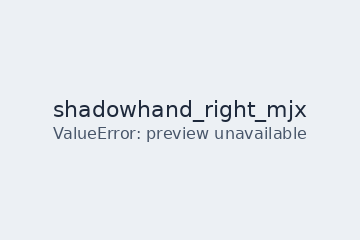
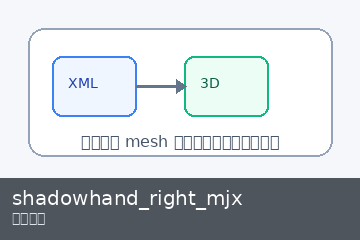
Refine benchmark inventory docs and previews

diff --git a/tools/render_benchmark_inventory.py b/tools/render_benchmark_inventory.py
@@ -101,10 +101,10 @@ def path_cell(paths: list[str] | str) -> str:
     return "<br>".join(f"`{item}`" for item in paths)
 
 
-def image_cell(path: str | None, alt: str) -> str:
+def image_cell(path: str | None, alt: str, width: int = 160) -> str:
     if not path:
         return ""
-    return f'<img src="{path}" width="160" alt="{alt}">'
+    return f'<img src="{path}" width="{width}" alt="{alt}">'
 
 
 def media_url(path: str) -> str:
@@ -185,9 +185,72 @@ def placeholder_image(title: str, subtitle: str) -> Image.Image:
     return image
 
 
+def reference_card(title: str, subtitle: str, detail: str | None = None) -> Image.Image:
+    image = Image.new("RGB", (SCENE_WIDTH, SCENE_HEIGHT), color=(245, 247, 250))
+    draw = ImageDraw.Draw(image)
+    frame = (28, 28, image.width - 28, image.height - 84)
+    draw.rounded_rectangle(frame, radius=16, outline=(148, 163, 184), width=2, fill=(255, 255, 255))
+    draw.rounded_rectangle((52, 56, 136, 116), radius=10, outline=(59, 130, 246), width=2, fill=(239, 246, 255))
+    draw.rounded_rectangle((184, 56, 268, 116), radius=10, outline=(16, 185, 129), width=2, fill=(236, 253, 245))
+    draw.line((136, 86, 184, 86), fill=(100, 116, 139), width=3)
+    draw.polygon([(176, 79), (176, 93), (186, 86)], fill=(100, 116, 139))
+    icon_font = load_font(14)
+    draw.text((68, 75), "XML", font=icon_font, fill=(30, 64, 175))
+    draw.text((200, 75), "3D", font=icon_font, fill=(6, 95, 70))
+    note_font = load_font(16)
+    note = detail or "Use metadata card"
+    note_lines = wrap_text(draw, note, note_font, image.width - 88)
+    y = 132
+    for line in note_lines[:2]:
+        box = draw.textbbox((0, 0), line, font=note_font)
+        x = (image.width - (box[2] - box[0])) // 2
+        draw.text((x, y), line, font=note_font, fill=(71, 85, 105))
+        y += 20
+    return add_label(image, title, subtitle)
+
+
 def save_image(image: Image.Image, out_path: Path) -> None:
     ensure_dir(out_path.parent)
     image.save(out_path)
+
+
+def humanize_render_error(exc: Exception) -> str:
+    message = str(exc)
+    if "No such file or directory" in message:
+        return "上游缺少 mesh 文件，使用结构卡片展示"
+    if "mesh" in message and "not found" in message:
+        return "上游 XML / mesh 引用异常，使用结构卡片展示"
+    if "plugin" in message:
+        return "上游插件依赖未满足，使用结构卡片展示"
+    return "当前改用结构卡片展示"
+
+
+AUTOBIO_PREVIEW_FALLBACKS = {
+    "model/object/centrifuge_1-5ml.xml": (
+        AUTOBIO_ROOT / "assets" / "container" / "centrifuge_1500ul_no_lid_vis.obj",
+        "mesh",
+        "使用相近的开放式 1.5 mL 管体预览",
+    ),
+    "model/object/centrifuge_15ml.xml": (
+        AUTOBIO_ROOT / "assets" / "container" / "centrifuge_15ml_screw_vis",
+        "mesh",
+        "使用相近的 15 mL screw-cap 管体预览",
+    ),
+    "model/object/centrifuge_50ml_screw.xml": (
+        AUTOBIO_ROOT / "assets" / "container" / "centrifuge_50ml_screw_vis",
+        "mesh",
+        "使用对应的 50 mL screw-cap mesh 预览",
+    ),
+}
+
+
+def fallback_render_source(source_path: Path) -> tuple[Path, str, str] | None:
+    resolved = resolve_autobio_render_source(source_path)
+    try:
+        relative = resolved.relative_to(AUTOBIO_ROOT).as_posix()
+    except ValueError:
+        return None
+    return AUTOBIO_PREVIEW_FALLBACKS.get(relative)
 
 
 def corner_background_color(image: Image.Image, sample: int = 16) -> np.ndarray:
@@ -327,7 +390,7 @@ def load_mesh_list(source: Path) -> list[trimesh.Trimesh]:
 def render_mesh_preview(source: Path, out_path: Path, title: str) -> None:
     meshes = load_mesh_list(source)
     if not meshes:
-        save_image(placeholder_image(title, "Preview unavailable"), out_path)
+        save_image(reference_card(title, "结构卡片", "未找到可渲染的 mesh 文件"), out_path)
         return
     mesh = trimesh.util.concatenate(meshes)
     vertices = mesh.vertices.copy()
@@ -379,7 +442,19 @@ def write_preview(source_path: Path, out_path: Path, title: str, preview_kind: s
         else:
             render_mesh_preview(source_path, out_path, title)
     except Exception as exc:
-        save_image(placeholder_image(title, f"{type(exc).__name__}: preview unavailable"), out_path)
+        fallback = fallback_render_source(source_path)
+        if fallback is not None:
+            fallback_source, fallback_kind, fallback_reason = fallback
+            try:
+                if fallback_kind == "mjcf":
+                    render_mjcf_preview(fallback_source, out_path, title)
+                else:
+                    render_mesh_preview(fallback_source, out_path, title)
+                return
+            except Exception:
+                save_image(reference_card(title, "结构卡片", fallback_reason), out_path)
+                return
+        save_image(reference_card(title, "结构卡片", humanize_render_error(exc)), out_path)
 
 
 def local_labutopia_thumb(scene_path: str) -> Path | None:
@@ -842,7 +917,11 @@ def core_inventory_rows(
         rows.append(
             TableRow(
                 [
-                    image_cell(manifest["core_entries"].get(entry["entry_id"]), entry["entry_name"]),
+                    image_cell(
+                        manifest["core_entries"].get(entry["entry_id"]),
+                        entry["entry_name"],
+                        width=320,
+                    ),
                     entry["entry_name"],
                     source_label(entry["source_project"]),
                     REFERENCE_KIND_LABELS[entry["reference_kind"]],
@@ -921,7 +1000,9 @@ def write_readme(manifest: dict[str, dict[str, str]]) -> None:
         "- `LabUtopia` 的主脉络是 `assets/chemistry_lab/`。它本质上更偏 scene-first，很多对象只能通过 `xxx.usd#/World/...` 这种场景内路径来引用。",
         "- 因此两者合并时，不能只看独立对象；必须把场景、场景内对象引用和组合对象一起纳入统一清单。",
         "",
-        "## 4. 合并后的可视化清单",
+        "## 4. 全部资产 / 场景",
+        "",
+        "这一章展示的是上游范围内所有值得盘点和可视化的条目，不等于最终全部纳入 benchmark。少数上游条目如果存在缺失 mesh 或坏引用，会使用结构卡片代替失败 placeholder。",
         "",
         "### 4.1 场景内对象引用",
         "",
@@ -939,9 +1020,21 @@ def write_readme(manifest: dict[str, dict[str, str]]) -> None:
         "",
         make_table(["预览", "来源", "类别", "名称", "路径", "说明"], scene_rows),
         "",
-        "## 5. 核心条目清单",
+        "## 5. 筛选后的 Benchmark 资产 / 场景",
         "",
         "这一节对应 `benchmark_core_inventory.json`。它只保留当前 benchmark 直接需要复用的核心条目，而不是上游仓库的全部文件。",
+        "",
+        "### 5.1 纳入标准",
+        "",
+        "只有同时满足下面这些条件的条目，才会进入这一章：",
+        "",
+        "1. 能直接服务 benchmark 任务，而不是只提供环境背景。",
+        "2. 能稳定归入一个明确的语义类别，并绑定 `match_group` 与别名集合。",
+        "3. 能整理成结构化数据单元，而不只是上游仓库里的孤立文件。",
+        "4. 粒度适合题目构造与 protocol 匹配，不会过细到单个环境碎片，也不会过粗到整张场景。",
+        "5. 至少具备可追溯的来源路径、用途说明和可视化状态，便于后续扩展与人工核查。",
+        "",
+        "### 5.2 核心条目表",
         "",
         make_table(
             ["预览", "条目名称", "来源", "层级", "匹配组", "别名", "用途", "本地相对路径", "可视化状态", "原始链接"],

diff --git a/data/benchmark_inventory/README.md b/data/benchmark_inventory/README.md
@@ -55,7 +55,9 @@ flowchart LR
 - `LabUtopia` 的主脉络是 `assets/chemistry_lab/`。它本质上更偏 scene-first，很多对象只能通过 `xxx.usd#/World/...` 这种场景内路径来引用。
 - 因此两者合并时，不能只看独立对象；必须把场景、场景内对象引用和组合对象一起纳入统一清单。
 
-## 4. 合并后的可视化清单
+## 4. 全部资产 / 场景
+
+这一章展示的是上游范围内所有值得盘点和可视化的条目，不等于最终全部纳入 benchmark。少数上游条目如果存在缺失 mesh 或坏引用，会使用结构卡片代替失败 placeholder。
 
 ### 4.1 场景内对象引用
 
@@ -174,41 +176,54 @@ flowchart LR
 | <img src="previews/labutopia/chem_usd/assets-chemistry-lab-hard-task-subusds-lab-015-usd.png" width="160" alt="assets/chemistry_lab/hard_task/SubUSDs/lab_015.usd"> | LabUtopia | 场景相关文件 | lab_015 | `assets/chemistry_lab/hard_task/SubUSDs/lab_015.usd` | SubUSD |
 | <img src="previews/labutopia/chem_usd/assets-chemistry-lab-lab-003-subusds-lab-015-usd.png" width="160" alt="assets/chemistry_lab/lab_003/SubUSDs/lab_015.usd"> | LabUtopia | 场景相关文件 | lab_015 | `assets/chemistry_lab/lab_003/SubUSDs/lab_015.usd` | SubUSD |
 
-## 5. 核心条目清单
+## 5. 筛选后的 Benchmark 资产 / 场景
 
 这一节对应 `benchmark_core_inventory.json`。它只保留当前 benchmark 直接需要复用的核心条目，而不是上游仓库的全部文件。
+第 5 章就是第 4 章经过 benchmark 纳入标准筛选后的子集。
+
+### 5.1 纳入标准
+
+只有同时满足下面这些条件的条目，才会进入这一章：
+
+1. 能直接服务 benchmark 任务，而不是只提供环境背景。
+2. 能稳定归入一个明确的语义类别，并绑定 `match_group` 与别名集合。
+3. 能整理成结构化数据单元，而不只是上游仓库里的孤立文件。
+4. 粒度适合题目构造与 protocol 匹配，不会过细到单个环境碎片，也不会过粗到整张场景。
+5. 至少具备可追溯的来源路径、用途说明和可视化状态，便于后续扩展与人工核查。
+
+### 5.2 核心条目表
 
 | 预览 | 条目名称 | 来源 | 层级 | 匹配组 | 别名 | 用途 | 本地相对路径 | 可视化状态 | 原始链接 |
 | --- | --- | --- | --- | --- | --- | --- | --- | --- | --- |
-| <img src="previews/core/autobio/autobio-cell-dish-100.png" width="160" alt="100 mm Cell Dish"> | 100 mm Cell Dish | AutoBio | 独立对象 | cell_dish | cell dish<br>cell dishes<br>cell culture dish<br>cell culture dishes<br>culture dish<br>culture dishes<br>petri dish<br>petri dishes | Cell culture plate for seeding, incubation, washing, and imaging. | `data/benchmark_inventory/files/autobio/autobio/assets/container/cell_dish_100_vis.obj` | 可直接按 mesh 渲染 | [源文件](https://raw.githubusercontent.com/autobio-bench/AutoBio/main/autobio/assets/container/cell_dish_100_vis.obj) |
-| <img src="previews/core/autobio/autobio-centrifuge-1-5ml-screw.png" width="160" alt="1.5 mL Screw-Cap Microcentrifuge Tube"> | 1.5 mL Screw-Cap Microcentrifuge Tube | AutoBio | 独立对象 | microcentrifuge_tube_1_5ml | microcentrifuge tube<br>microcentrifuge tubes<br>eppendorf tube<br>eppendorf tubes<br>1.5 ml tube<br>1.5 ml tubes<br>1.5 ml microcentrifuge tube<br>1.5 ml centrifuge tube<br>1.5 ml screw cap tube | Small sample tube for aliquoting, mixing, incubation, and centrifugation. | `data/benchmark_inventory/files/autobio/autobio/assets/container/centrifuge_1-5ml_screw_vis` | 可直接按 mesh 渲染 | [源文件](https://github.com/autobio-bench/AutoBio/tree/main/autobio/assets/container/centrifuge_1-5ml_screw_vis) |
-| <img src="previews/core/autobio/autobio-centrifuge-10ml.png" width="160" alt="10 mL Centrifuge Tube"> | 10 mL Centrifuge Tube | AutoBio | 独立对象 | centrifuge_tube_10ml | 10 ml centrifuge tube<br>10 ml centrifuge tubes<br>10ml centrifuge tube<br>10 ml tube<br>10 ml tubes | Medium-volume sample tube for transfer and centrifugation. | `data/benchmark_inventory/files/autobio/autobio/assets/container/centrifuge_10ml_vis.obj` | 可直接按 mesh 渲染 | [源文件](https://raw.githubusercontent.com/autobio-bench/AutoBio/main/autobio/assets/container/centrifuge_10ml_vis.obj) |
-| <img src="previews/core/autobio/autobio-centrifuge-1500ul-open.png" width="160" alt="1.5 mL Open Microcentrifuge Tube"> | 1.5 mL Open Microcentrifuge Tube | AutoBio | 独立对象 | microcentrifuge_tube_1_5ml | microcentrifuge tube<br>microcentrifuge tubes<br>eppendorf tube<br>eppendorf tubes<br>1.5 ml tube<br>1.5 ml tubes<br>1.5 ml microcentrifuge tube<br>1.5 ml centrifuge tube<br>1.5 ml screw cap tube | Open microcentrifuge tube for liquid handling and insertion tasks. | `data/benchmark_inventory/files/autobio/autobio/assets/container/centrifuge_1500ul_no_lid_vis.obj` | 可直接按 mesh 渲染 | [源文件](https://raw.githubusercontent.com/autobio-bench/AutoBio/main/autobio/assets/container/centrifuge_1500ul_no_lid_vis.obj) |
-| <img src="previews/core/autobio/autobio-centrifuge-15ml-screw.png" width="160" alt="15 mL Screw-Cap Centrifuge Tube"> | 15 mL Screw-Cap Centrifuge Tube | AutoBio | 独立对象 | centrifuge_tube_15ml | 15 ml centrifuge tube<br>15 ml centrifuge tubes<br>15ml centrifuge tube<br>15 ml conical tube<br>15 ml conical tubes<br>15ml conical tube<br>15 ml falcon tube<br>15 ml falcon tubes | Conical sample tube for medium-volume transfer and centrifugation. | `data/benchmark_inventory/files/autobio/autobio/assets/container/centrifuge_15ml_screw_vis` | 可直接按 mesh 渲染 | [源文件](https://github.com/autobio-bench/AutoBio/tree/main/autobio/assets/container/centrifuge_15ml_screw_vis) |
-| <img src="previews/core/autobio/autobio-centrifuge-50ml.png" width="160" alt="50 mL Centrifuge Tube"> | 50 mL Centrifuge Tube | AutoBio | 独立对象 | centrifuge_tube_50ml | 50 ml centrifuge tube<br>50 ml centrifuge tubes<br>50ml centrifuge tube<br>50 ml conical tube<br>50 ml conical tubes<br>50ml conical tube<br>50 ml falcon tube<br>50 ml falcon tubes<br>falcon tube<br>falcon tubes | Large conical tube for reagent preparation and centrifugation. | `data/benchmark_inventory/files/autobio/autobio/assets/container/centrifuge_50ml_vis.obj` | 可直接按 mesh 渲染 | [源文件](https://raw.githubusercontent.com/autobio-bench/AutoBio/main/autobio/assets/container/centrifuge_50ml_vis.obj) |
-| <img src="previews/core/autobio/autobio-centrifuge-50ml-screw.png" width="160" alt="50 mL Screw-Cap Centrifuge Tube"> | 50 mL Screw-Cap Centrifuge Tube | AutoBio | 独立对象 | centrifuge_tube_50ml | 50 ml centrifuge tube<br>50 ml centrifuge tubes<br>50ml centrifuge tube<br>50 ml conical tube<br>50 ml conical tubes<br>50ml conical tube<br>50 ml falcon tube<br>50 ml falcon tubes<br>falcon tube<br>falcon tubes | Large screw-cap tube for sealed transfer and centrifugation. | `data/benchmark_inventory/files/autobio/autobio/assets/container/centrifuge_50ml_screw_vis` | 可直接按 mesh 渲染 | [源文件](https://github.com/autobio-bench/AutoBio/tree/main/autobio/assets/container/centrifuge_50ml_screw_vis) |
-| <img src="previews/core/autobio/autobio-cryovial-1-8ml.png" width="160" alt="1.8 mL Cryovial"> | 1.8 mL Cryovial | AutoBio | 独立对象 | cryovial | cryovial<br>cryovials<br>cryo vial<br>cryo vials<br>cryogenic vial<br>cryogenic vials | Cryogenic storage vial for frozen samples and aliquots. | `data/benchmark_inventory/files/autobio/autobio/assets/container/cryovial_1-8ml_vis` | 可直接按 mesh 渲染 | [源文件](https://github.com/autobio-bench/AutoBio/tree/main/autobio/assets/container/cryovial_1-8ml_vis) |
-| <img src="previews/core/autobio/autobio-pcr-plate-96well.png" width="160" alt="96-Well PCR Plate"> | 96-Well PCR Plate | AutoBio | 独立对象 | pcr_plate | pcr plate<br>pcr plates<br>96 well pcr plate<br>96 well pcr plates<br>96 well plate<br>96 well plates<br>96 well microplate<br>96 well microplates | Plate for PCR setup, thermal cycling, and sample organization. | `data/benchmark_inventory/files/autobio/autobio/assets/container/pcr_plate_96well_vis.obj` | 可直接按 mesh 渲染 | [源文件](https://raw.githubusercontent.com/autobio-bench/AutoBio/main/autobio/assets/container/pcr_plate_96well_vis.obj) |
-| <img src="previews/core/autobio/autobio-tip-200ul.png" width="160" alt="200 uL Pipette Tip"> | 200 uL Pipette Tip | AutoBio | 独立对象 | pipette_tip | pipette tip<br>pipette tips<br>micropipette tip<br>micropipette tips<br>200 ul tip<br>200 ul tips<br>200 ul pipette tip<br>200 ul pipette tips | Disposable liquid-handling tip for pipetting small volumes. | `data/benchmark_inventory/files/autobio/autobio/assets/container/tip_200ul_vis/visual.obj` | 可直接按 mesh 渲染 | [源文件](https://github.com/autobio-bench/AutoBio/tree/main/autobio/assets/container/tip_200ul_vis) |
-| <img src="previews/core/autobio/autobio-pipette.png" width="160" alt="Micropipette"> | Micropipette | AutoBio | 组合对象 | pipette | pipette<br>pipettes<br>micropipette<br>micropipettes<br>single channel pipette<br>single channel pipettes | Manual pipette for aspirating and dispensing liquids. | `data/benchmark_inventory/files/autobio/autobio/model/object/pipette.gen.xml` | 可直接按 MJCF 装配渲染 | [源文件](https://raw.githubusercontent.com/autobio-bench/AutoBio/main/autobio/model/object/pipette.gen.xml) |
-| <img src="previews/core/autobio/autobio-tip-box-24slot.png" width="160" alt="24-Slot Tip Box"> | 24-Slot Tip Box | AutoBio | 独立对象 | tip_box | tip box<br>tip boxes<br>pipette tip box<br>pipette tip boxes | Container for storing and presenting pipette tips. | `data/benchmark_inventory/files/autobio/autobio/assets/rack/tip_box_24slot_vis.obj` | 可直接按 mesh 渲染 | [源文件](https://raw.githubusercontent.com/autobio-bench/AutoBio/main/autobio/assets/rack/tip_box_24slot_vis.obj) |
-| <img src="previews/core/autobio/autobio-pipette-rack-tri.png" width="160" alt="Triangular Pipette Rack"> | Triangular Pipette Rack | AutoBio | 独立对象 | pipette_rack | pipette rack<br>pipette racks<br>pipette holder<br>pipette holders<br>pipette stand<br>pipette stands | Rack for holding pipettes upright between operations. | `data/benchmark_inventory/files/autobio/autobio/assets/rack/pipette_rack_tri_vis.obj` | 可直接按 mesh 渲染 | [源文件](https://raw.githubusercontent.com/autobio-bench/AutoBio/main/autobio/assets/rack/pipette_rack_tri_vis.obj) |
-| <img src="previews/core/autobio/autobio-centrifuge-10slot-rack.png" width="160" alt="10-Slot Centrifuge Tube Rack"> | 10-Slot Centrifuge Tube Rack | AutoBio | 独立对象 | tube_rack | tube rack<br>tube racks<br>centrifuge tube rack<br>centrifuge tube racks<br>microcentrifuge tube rack<br>microcentrifuge tube racks<br>test tube rack<br>test tube racks | Rack for organizing and positioning sample tubes. | `data/benchmark_inventory/files/autobio/autobio/assets/rack/centrifuge_10slot_vis.obj` | 可直接按 mesh 渲染 | [源文件](https://raw.githubusercontent.com/autobio-bench/AutoBio/main/autobio/assets/rack/centrifuge_10slot_vis.obj) |
-| <img src="previews/core/autobio/autobio-centrifuge-plate-60well.png" width="160" alt="60-Well Plate Rack"> | 60-Well Plate Rack | AutoBio | 独立对象 | tube_rack | tube rack<br>tube racks<br>centrifuge tube rack<br>centrifuge tube racks<br>microcentrifuge tube rack<br>microcentrifuge tube racks<br>test tube rack<br>test tube racks | Multi-well rack for arranging small tubes or vials. | `data/benchmark_inventory/files/autobio/autobio/assets/rack/centrifuge_plate_60well_vis.obj` | 可直接按 mesh 渲染 | [源文件](https://raw.githubusercontent.com/autobio-bench/AutoBio/main/autobio/assets/rack/centrifuge_plate_60well_vis.obj) |
-| <img src="previews/core/autobio/autobio-centrifuge-5430.png" width="160" alt="Eppendorf 5430 Centrifuge"> | Eppendorf 5430 Centrifuge | AutoBio | 组合对象 | centrifuge | centrifuge<br>centrifuges<br>microcentrifuge<br>microcentrifuges<br>bench centrifuge<br>bench centrifuges<br>refrigerated centrifuge<br>refrigerated centrifuges | Bench centrifuge for spinning small sample tubes. | `data/benchmark_inventory/files/autobio/autobio/model/instrument/centrifuge_eppendorf_5430.xml` | 可直接按 MJCF 装配渲染 | [源文件](https://raw.githubusercontent.com/autobio-bench/AutoBio/main/autobio/model/instrument/centrifuge_eppendorf_5430.xml) |
-| <img src="previews/core/autobio/autobio-centrifuge-5910-ri.png" width="160" alt="Eppendorf 5910 Ri Centrifuge"> | Eppendorf 5910 Ri Centrifuge | AutoBio | 组合对象 | centrifuge | centrifuge<br>centrifuges<br>microcentrifuge<br>microcentrifuges<br>bench centrifuge<br>bench centrifuges<br>refrigerated centrifuge<br>refrigerated centrifuges | Large refrigerated centrifuge for higher-volume tube spinning. | `data/benchmark_inventory/files/autobio/autobio/model/instrument/centrifuge_eppendorf_5910_ri.xml` | 可直接按 MJCF 装配渲染 | [源文件](https://raw.githubusercontent.com/autobio-bench/AutoBio/main/autobio/model/instrument/centrifuge_eppendorf_5910_ri.xml) |
-| <img src="previews/core/autobio/autobio-centrifuge-tgear-mini.png" width="160" alt="Tiangen Tgear Mini Centrifuge"> | Tiangen Tgear Mini Centrifuge | AutoBio | 组合对象 | centrifuge | centrifuge<br>centrifuges<br>microcentrifuge<br>microcentrifuges<br>bench centrifuge<br>bench centrifuges<br>refrigerated centrifuge<br>refrigerated centrifuges | Compact mini centrifuge for quick spin-down operations. | `data/benchmark_inventory/files/autobio/autobio/model/instrument/centrifuge_tiangen_tgear_mini.xml` | 可直接按 MJCF 装配渲染 | [源文件](https://raw.githubusercontent.com/autobio-bench/AutoBio/main/autobio/model/instrument/centrifuge_tiangen_tgear_mini.xml) |
-| <img src="previews/core/autobio/autobio-thermal-cycler-c1000.png" width="160" alt="Bio-Rad C1000 Thermal Cycler"> | Bio-Rad C1000 Thermal Cycler | AutoBio | 组合对象 | thermal_cycler | thermal cycler<br>thermal cyclers<br>thermocycler<br>thermocyclers<br>pcr machine<br>pcr machines | PCR instrument for running thermal cycling programs. | `data/benchmark_inventory/files/autobio/autobio/model/instrument/thermal_cycler_biorad_c1000.xml` | 可直接按 MJCF 装配渲染 | [源文件](https://raw.githubusercontent.com/autobio-bench/AutoBio/main/autobio/model/instrument/thermal_cycler_biorad_c1000.xml) |
-| <img src="previews/core/autobio/autobio-thermal-mixer-eppendorf-c.png" width="160" alt="Eppendorf C Thermal Mixer"> | Eppendorf C Thermal Mixer | AutoBio | 组合对象 | thermal_mixer | thermal mixer<br>thermal mixers<br>thermomixer<br>thermomixers<br>heat shaker<br>heat shakers | Instrument for controlled heating and shaking of samples. | `data/benchmark_inventory/files/autobio/autobio/model/instrument/thermal_mixer_eppendorf_c.xml` | 可直接按 MJCF 装配渲染 | [源文件](https://raw.githubusercontent.com/autobio-bench/AutoBio/main/autobio/model/instrument/thermal_mixer_eppendorf_c.xml) |
-| <img src="previews/core/autobio/autobio-vortex-mixer-genie-2.png" width="160" alt="Genie 2 Vortex Mixer"> | Genie 2 Vortex Mixer | AutoBio | 组合对象 | vortex_mixer | vortex mixer<br>vortex mixers<br>vortexer<br>vortexers<br>vortex genie | Mixer for vortexing tubes and suspensions. | `data/benchmark_inventory/files/autobio/autobio/model/instrument/vortex_mixer_genie_2.xml` | 可直接按 MJCF 装配渲染 | [源文件](https://raw.githubusercontent.com/autobio-bench/AutoBio/main/autobio/model/instrument/vortex_mixer_genie_2.xml) |
-| <img src="previews/core/labutopia/labutopia-beaker-family.png" width="160" alt="Beaker Family"> | Beaker Family | LabUtopia | 场景内对象引用 | beaker | beaker<br>beakers<br>glass beaker<br>glass beakers | General glass container for mixing, pouring, heating, and transfer. | `data/benchmark_inventory/files/labutopia/assets/chemistry_lab/lab_001/lab_001.usd#/World/beaker` | 当前使用 USD 场景缩略图展示 | [源文件](https://media.githubusercontent.com/media/Rui-li023/LabUtopia/main/assets/chemistry_lab/lab_001/lab_001.usd) |
-| <img src="previews/core/labutopia/labutopia-conical-bottle-family.png" width="160" alt="Conical Bottle / Flask Family"> | Conical Bottle / Flask Family | LabUtopia | 场景内对象引用 | conical_bottle | conical bottle<br>conical bottles<br>erlenmeyer flask<br>erlenmeyer flasks<br>conical flask<br>conical flasks | Flask-style glassware for liquid storage, mixing, and pouring. | `data/benchmark_inventory/files/labutopia/assets/chemistry_lab/lab_001/lab_001.usd#/World/conical_bottle02` | 当前使用 USD 场景缩略图展示 | [源文件](https://media.githubusercontent.com/media/Rui-li023/LabUtopia/main/assets/chemistry_lab/lab_001/lab_001.usd) |
-| <img src="previews/core/labutopia/labutopia-graduated-cylinder-03.png" width="160" alt="Graduated Cylinder"> | Graduated Cylinder | LabUtopia | 场景内对象引用 | graduated_cylinder | graduated cylinder<br>graduated cylinders<br>measuring cylinder<br>measuring cylinders | Volumetric cylinder for measuring and dispensing liquids. | `data/benchmark_inventory/files/labutopia/assets/chemistry_lab/lab_001/lab_001.usd#/World/graduated_cylinder_03` | 当前使用 USD 场景缩略图展示 | [源文件](https://media.githubusercontent.com/media/Rui-li023/LabUtopia/main/assets/chemistry_lab/lab_001/lab_001.usd) |
-| <img src="previews/core/labutopia/labutopia-glass-rod.png" width="160" alt="Glass Rod"> | Glass Rod | LabUtopia | 场景内对象引用 | glass_rod | glass rod<br>glass rods<br>stirring rod<br>stirring rods<br>glass stirring rod<br>glass stirring rods | Rod for manual stirring and mixing. | `data/benchmark_inventory/files/labutopia/assets/chemistry_lab/lab_003/lab_003.usd#/World/glass_rod` | 当前使用 USD 场景缩略图展示 | [源文件](https://media.githubusercontent.com/media/Rui-li023/LabUtopia/main/assets/chemistry_lab/lab_003/lab_003.usd) |
-| <img src="previews/core/labutopia/labutopia-test-tube-rack.png" width="160" alt="Test Tube Rack"> | Test Tube Rack | LabUtopia | 场景内对象引用 | tube_rack | tube rack<br>tube racks<br>centrifuge tube rack<br>centrifuge tube racks<br>microcentrifuge tube rack<br>microcentrifuge tube racks<br>test tube rack<br>test tube racks | Rack for holding tubes upright during preparation and storage. | `data/benchmark_inventory/files/labutopia/assets/chemistry_lab/lab_001/lab_001.usd#/World/test_tube_rack` | 当前使用 USD 场景缩略图展示 | [源文件](https://media.githubusercontent.com/media/Rui-li023/LabUtopia/main/assets/chemistry_lab/lab_001/lab_001.usd) |
-| <img src="previews/core/labutopia/labutopia-drying-box-family.png" width="160" alt="Drying Box Family"> | Drying Box Family | LabUtopia | 场景内对象引用 | drying_box | drying box<br>drying boxes<br>dry box<br>dry boxes<br>drying oven<br>drying ovens<br>drying chamber<br>drying chambers | Device used for drying or enclosed heating workflows. | `data/benchmark_inventory/files/labutopia/assets/chemistry_lab/lab_001/lab_001.usd#/World/DryingBox_01` | 当前使用 USD 场景缩略图展示 | [源文件](https://media.githubusercontent.com/media/Rui-li023/LabUtopia/main/assets/chemistry_lab/lab_001/lab_001.usd) |
-| <img src="previews/core/labutopia/labutopia-heat-device.png" width="160" alt="Heat Device / Hot Plate"> | Heat Device / Hot Plate | LabUtopia | 场景内对象引用 | heating_device | hot plate<br>hot plates<br>heating plate<br>heating plates<br>heating device<br>heating devices<br>heat device<br>heat devices<br>heater<br>heaters | Heating surface or device used to activate thermal tasks. | `data/benchmark_inventory/files/labutopia/assets/chemistry_lab/lab_003/lab_003.usd#/World/heat_device` | 当前使用 USD 场景缩略图展示 | [源文件](https://media.githubusercontent.com/media/Rui-li023/LabUtopia/main/assets/chemistry_lab/lab_003/lab_003.usd) |
-| <img src="previews/core/labutopia/labutopia-muffle-furnace.png" width="160" alt="Muffle Furnace"> | Muffle Furnace | LabUtopia | 场景内对象引用 | muffle_furnace | muffle furnace<br>muffle furnaces<br>laboratory furnace<br>laboratory furnaces | High-temperature heating device for enclosed furnace operations. | `data/benchmark_inventory/files/labutopia/assets/chemistry_lab/hard_task/Scene1_hard.usd#/World/MuffleFurnace` | 当前使用 USD 场景缩略图展示 | [源文件](https://media.githubusercontent.com/media/Rui-li023/LabUtopia/main/assets/chemistry_lab/hard_task/Scene1_hard.usd) |
+| <img src="previews/core/autobio/autobio-cell-dish-100.png" width="320" alt="100 mm Cell Dish"> | 100 mm Cell Dish | AutoBio | 独立对象 | cell_dish | cell dish<br>cell dishes<br>cell culture dish<br>cell culture dishes<br>culture dish<br>culture dishes<br>petri dish<br>petri dishes | Cell culture plate for seeding, incubation, washing, and imaging. | `data/benchmark_inventory/files/autobio/autobio/assets/container/cell_dish_100_vis.obj` | 可直接按 mesh 渲染 | [源文件](https://raw.githubusercontent.com/autobio-bench/AutoBio/main/autobio/assets/container/cell_dish_100_vis.obj) |
+| <img src="previews/core/autobio/autobio-centrifuge-1-5ml-screw.png" width="320" alt="1.5 mL Screw-Cap Microcentrifuge Tube"> | 1.5 mL Screw-Cap Microcentrifuge Tube | AutoBio | 独立对象 | microcentrifuge_tube_1_5ml | microcentrifuge tube<br>microcentrifuge tubes<br>eppendorf tube<br>eppendorf tubes<br>1.5 ml tube<br>1.5 ml tubes<br>1.5 ml microcentrifuge tube<br>1.5 ml centrifuge tube<br>1.5 ml screw cap tube | Small sample tube for aliquoting, mixing, incubation, and centrifugation. | `data/benchmark_inventory/files/autobio/autobio/assets/container/centrifuge_1-5ml_screw_vis` | 可直接按 mesh 渲染 | [源文件](https://github.com/autobio-bench/AutoBio/tree/main/autobio/assets/container/centrifuge_1-5ml_screw_vis) |
+| <img src="previews/core/autobio/autobio-centrifuge-10ml.png" width="320" alt="10 mL Centrifuge Tube"> | 10 mL Centrifuge Tube | AutoBio | 独立对象 | centrifuge_tube_10ml | 10 ml centrifuge tube<br>10 ml centrifuge tubes<br>10ml centrifuge tube<br>10 ml tube<br>10 ml tubes | Medium-volume sample tube for transfer and centrifugation. | `data/benchmark_inventory/files/autobio/autobio/assets/container/centrifuge_10ml_vis.obj` | 可直接按 mesh 渲染 | [源文件](https://raw.githubusercontent.com/autobio-bench/AutoBio/main/autobio/assets/container/centrifuge_10ml_vis.obj) |
+| <img src="previews/core/autobio/autobio-centrifuge-1500ul-open.png" width="320" alt="1.5 mL Open Microcentrifuge Tube"> | 1.5 mL Open Microcentrifuge Tube | AutoBio | 独立对象 | microcentrifuge_tube_1_5ml | microcentrifuge tube<br>microcentrifuge tubes<br>eppendorf tube<br>eppendorf tubes<br>1.5 ml tube<br>1.5 ml tubes<br>1.5 ml microcentrifuge tube<br>1.5 ml centrifuge tube<br>1.5 ml screw cap tube | Open microcentrifuge tube for liquid handling and insertion tasks. | `data/benchmark_inventory/files/autobio/autobio/assets/container/centrifuge_1500ul_no_lid_vis.obj` | 可直接按 mesh 渲染 | [源文件](https://raw.githubusercontent.com/autobio-bench/AutoBio/main/autobio/assets/container/centrifuge_1500ul_no_lid_vis.obj) |
+| <img src="previews/core/autobio/autobio-centrifuge-15ml-screw.png" width="320" alt="15 mL Screw-Cap Centrifuge Tube"> | 15 mL Screw-Cap Centrifuge Tube | AutoBio | 独立对象 | centrifuge_tube_15ml | 15 ml centrifuge tube<br>15 ml centrifuge tubes<br>15ml centrifuge tube<br>15 ml conical tube<br>15 ml conical tubes<br>15ml conical tube<br>15 ml falcon tube<br>15 ml falcon tubes | Conical sample tube for medium-volume transfer and centrifugation. | `data/benchmark_inventory/files/autobio/autobio/assets/container/centrifuge_15ml_screw_vis` | 可直接按 mesh 渲染 | [源文件](https://github.com/autobio-bench/AutoBio/tree/main/autobio/assets/container/centrifuge_15ml_screw_vis) |
+| <img src="previews/core/autobio/autobio-centrifuge-50ml.png" width="320" alt="50 mL Centrifuge Tube"> | 50 mL Centrifuge Tube | AutoBio | 独立对象 | centrifuge_tube_50ml | 50 ml centrifuge tube<br>50 ml centrifuge tubes<br>50ml centrifuge tube<br>50 ml conical tube<br>50 ml conical tubes<br>50ml conical tube<br>50 ml falcon tube<br>50 ml falcon tubes<br>falcon tube<br>falcon tubes | Large conical tube for reagent preparation and centrifugation. | `data/benchmark_inventory/files/autobio/autobio/assets/container/centrifuge_50ml_vis.obj` | 可直接按 mesh 渲染 | [源文件](https://raw.githubusercontent.com/autobio-bench/AutoBio/main/autobio/assets/container/centrifuge_50ml_vis.obj) |
+| <img src="previews/core/autobio/autobio-centrifuge-50ml-screw.png" width="320" alt="50 mL Screw-Cap Centrifuge Tube"> | 50 mL Screw-Cap Centrifuge Tube | AutoBio | 独立对象 | centrifuge_tube_50ml | 50 ml centrifuge tube<br>50 ml centrifuge tubes<br>50ml centrifuge tube<br>50 ml conical tube<br>50 ml conical tubes<br>50ml conical tube<br>50 ml falcon tube<br>50 ml falcon tubes<br>falcon tube<br>falcon tubes | Large screw-cap tube for sealed transfer and centrifugation. | `data/benchmark_inventory/files/autobio/autobio/assets/container/centrifuge_50ml_screw_vis` | 可直接按 mesh 渲染 | [源文件](https://github.com/autobio-bench/AutoBio/tree/main/autobio/assets/container/centrifuge_50ml_screw_vis) |
+| <img src="previews/core/autobio/autobio-cryovial-1-8ml.png" width="320" alt="1.8 mL Cryovial"> | 1.8 mL Cryovial | AutoBio | 独立对象 | cryovial | cryovial<br>cryovials<br>cryo vial<br>cryo vials<br>cryogenic vial<br>cryogenic vials | Cryogenic storage vial for frozen samples and aliquots. | `data/benchmark_inventory/files/autobio/autobio/assets/container/cryovial_1-8ml_vis` | 可直接按 mesh 渲染 | [源文件](https://github.com/autobio-bench/AutoBio/tree/main/autobio/assets/container/cryovial_1-8ml_vis) |
+| <img src="previews/core/autobio/autobio-pcr-plate-96well.png" width="320" alt="96-Well PCR Plate"> | 96-Well PCR Plate | AutoBio | 独立对象 | pcr_plate | pcr plate<br>pcr plates<br>96 well pcr plate<br>96 well pcr plates<br>96 well plate<br>96 well plates<br>96 well microplate<br>96 well microplates | Plate for PCR setup, thermal cycling, and sample organization. | `data/benchmark_inventory/files/autobio/autobio/assets/container/pcr_plate_96well_vis.obj` | 可直接按 mesh 渲染 | [源文件](https://raw.githubusercontent.com/autobio-bench/AutoBio/main/autobio/assets/container/pcr_plate_96well_vis.obj) |
+| <img src="previews/core/autobio/autobio-tip-200ul.png" width="320" alt="200 uL Pipette Tip"> | 200 uL Pipette Tip | AutoBio | 独立对象 | pipette_tip | pipette tip<br>pipette tips<br>micropipette tip<br>micropipette tips<br>200 ul tip<br>200 ul tips<br>200 ul pipette tip<br>200 ul pipette tips | Disposable liquid-handling tip for pipetting small volumes. | `data/benchmark_inventory/files/autobio/autobio/assets/container/tip_200ul_vis/visual.obj` | 可直接按 mesh 渲染 | [源文件](https://github.com/autobio-bench/AutoBio/tree/main/autobio/assets/container/tip_200ul_vis) |
+| <img src="previews/core/autobio/autobio-pipette.png" width="320" alt="Micropipette"> | Micropipette | AutoBio | 组合对象 | pipette | pipette<br>pipettes<br>micropipette<br>micropipettes<br>single channel pipette<br>single channel pipettes | Manual pipette for aspirating and dispensing liquids. | `data/benchmark_inventory/files/autobio/autobio/model/object/pipette.gen.xml` | 可直接按 MJCF 装配渲染 | [源文件](https://raw.githubusercontent.com/autobio-bench/AutoBio/main/autobio/model/object/pipette.gen.xml) |
+| <img src="previews/core/autobio/autobio-tip-box-24slot.png" width="320" alt="24-Slot Tip Box"> | 24-Slot Tip Box | AutoBio | 独立对象 | tip_box | tip box<br>tip boxes<br>pipette tip box<br>pipette tip boxes | Container for storing and presenting pipette tips. | `data/benchmark_inventory/files/autobio/autobio/assets/rack/tip_box_24slot_vis.obj` | 可直接按 mesh 渲染 | [源文件](https://raw.githubusercontent.com/autobio-bench/AutoBio/main/autobio/assets/rack/tip_box_24slot_vis.obj) |
+| <img src="previews/core/autobio/autobio-pipette-rack-tri.png" width="320" alt="Triangular Pipette Rack"> | Triangular Pipette Rack | AutoBio | 独立对象 | pipette_rack | pipette rack<br>pipette racks<br>pipette holder<br>pipette holders<br>pipette stand<br>pipette stands | Rack for holding pipettes upright between operations. | `data/benchmark_inventory/files/autobio/autobio/assets/rack/pipette_rack_tri_vis.obj` | 可直接按 mesh 渲染 | [源文件](https://raw.githubusercontent.com/autobio-bench/AutoBio/main/autobio/assets/rack/pipette_rack_tri_vis.obj) |
+| <img src="previews/core/autobio/autobio-centrifuge-10slot-rack.png" width="320" alt="10-Slot Centrifuge Tube Rack"> | 10-Slot Centrifuge Tube Rack | AutoBio | 独立对象 | tube_rack | tube rack<br>tube racks<br>centrifuge tube rack<br>centrifuge tube racks<br>microcentrifuge tube rack<br>microcentrifuge tube racks<br>test tube rack<br>test tube racks | Rack for organizing and positioning sample tubes. | `data/benchmark_inventory/files/autobio/autobio/assets/rack/centrifuge_10slot_vis.obj` | 可直接按 mesh 渲染 | [源文件](https://raw.githubusercontent.com/autobio-bench/AutoBio/main/autobio/assets/rack/centrifuge_10slot_vis.obj) |
+| <img src="previews/core/autobio/autobio-centrifuge-plate-60well.png" width="320" alt="60-Well Plate Rack"> | 60-Well Plate Rack | AutoBio | 独立对象 | tube_rack | tube rack<br>tube racks<br>centrifuge tube rack<br>centrifuge tube racks<br>microcentrifuge tube rack<br>microcentrifuge tube racks<br>test tube rack<br>test tube racks | Multi-well rack for arranging small tubes or vials. | `data/benchmark_inventory/files/autobio/autobio/assets/rack/centrifuge_plate_60well_vis.obj` | 可直接按 mesh 渲染 | [源文件](https://raw.githubusercontent.com/autobio-bench/AutoBio/main/autobio/assets/rack/centrifuge_plate_60well_vis.obj) |
+| <img src="previews/core/autobio/autobio-centrifuge-5430.png" width="320" alt="Eppendorf 5430 Centrifuge"> | Eppendorf 5430 Centrifuge | AutoBio | 组合对象 | centrifuge | centrifuge<br>centrifuges<br>microcentrifuge<br>microcentrifuges<br>bench centrifuge<br>bench centrifuges<br>refrigerated centrifuge<br>refrigerated centrifuges | Bench centrifuge for spinning small sample tubes. | `data/benchmark_inventory/files/autobio/autobio/model/instrument/centrifuge_eppendorf_5430.xml` | 可直接按 MJCF 装配渲染 | [源文件](https://raw.githubusercontent.com/autobio-bench/AutoBio/main/autobio/model/instrument/centrifuge_eppendorf_5430.xml) |
+| <img src="previews/core/autobio/autobio-centrifuge-5910-ri.png" width="320" alt="Eppendorf 5910 Ri Centrifuge"> | Eppendorf 5910 Ri Centrifuge | AutoBio | 组合对象 | centrifuge | centrifuge<br>centrifuges<br>microcentrifuge<br>microcentrifuges<br>bench centrifuge<br>bench centrifuges<br>refrigerated centrifuge<br>refrigerated centrifuges | Large refrigerated centrifuge for higher-volume tube spinning. | `data/benchmark_inventory/files/autobio/autobio/model/instrument/centrifuge_eppendorf_5910_ri.xml` | 可直接按 MJCF 装配渲染 | [源文件](https://raw.githubusercontent.com/autobio-bench/AutoBio/main/autobio/model/instrument/centrifuge_eppendorf_5910_ri.xml) |
+| <img src="previews/core/autobio/autobio-centrifuge-tgear-mini.png" width="320" alt="Tiangen Tgear Mini Centrifuge"> | Tiangen Tgear Mini Centrifuge | AutoBio | 组合对象 | centrifuge | centrifuge<br>centrifuges<br>microcentrifuge<br>microcentrifuges<br>bench centrifuge<br>bench centrifuges<br>refrigerated centrifuge<br>refrigerated centrifuges | Compact mini centrifuge for quick spin-down operations. | `data/benchmark_inventory/files/autobio/autobio/model/instrument/centrifuge_tiangen_tgear_mini.xml` | 可直接按 MJCF 装配渲染 | [源文件](https://raw.githubusercontent.com/autobio-bench/AutoBio/main/autobio/model/instrument/centrifuge_tiangen_tgear_mini.xml) |
+| <img src="previews/core/autobio/autobio-thermal-cycler-c1000.png" width="320" alt="Bio-Rad C1000 Thermal Cycler"> | Bio-Rad C1000 Thermal Cycler | AutoBio | 组合对象 | thermal_cycler | thermal cycler<br>thermal cyclers<br>thermocycler<br>thermocyclers<br>pcr machine<br>pcr machines | PCR instrument for running thermal cycling programs. | `data/benchmark_inventory/files/autobio/autobio/model/instrument/thermal_cycler_biorad_c1000.xml` | 可直接按 MJCF 装配渲染 | [源文件](https://raw.githubusercontent.com/autobio-bench/AutoBio/main/autobio/model/instrument/thermal_cycler_biorad_c1000.xml) |
+| <img src="previews/core/autobio/autobio-thermal-mixer-eppendorf-c.png" width="320" alt="Eppendorf C Thermal Mixer"> | Eppendorf C Thermal Mixer | AutoBio | 组合对象 | thermal_mixer | thermal mixer<br>thermal mixers<br>thermomixer<br>thermomixers<br>heat shaker<br>heat shakers | Instrument for controlled heating and shaking of samples. | `data/benchmark_inventory/files/autobio/autobio/model/instrument/thermal_mixer_eppendorf_c.xml` | 可直接按 MJCF 装配渲染 | [源文件](https://raw.githubusercontent.com/autobio-bench/AutoBio/main/autobio/model/instrument/thermal_mixer_eppendorf_c.xml) |
+| <img src="previews/core/autobio/autobio-vortex-mixer-genie-2.png" width="320" alt="Genie 2 Vortex Mixer"> | Genie 2 Vortex Mixer | AutoBio | 组合对象 | vortex_mixer | vortex mixer<br>vortex mixers<br>vortexer<br>vortexers<br>vortex genie | Mixer for vortexing tubes and suspensions. | `data/benchmark_inventory/files/autobio/autobio/model/instrument/vortex_mixer_genie_2.xml` | 可直接按 MJCF 装配渲染 | [源文件](https://raw.githubusercontent.com/autobio-bench/AutoBio/main/autobio/model/instrument/vortex_mixer_genie_2.xml) |
+| <img src="previews/core/labutopia/labutopia-beaker-family.png" width="320" alt="Beaker Family"> | Beaker Family | LabUtopia | 场景内对象引用 | beaker | beaker<br>beakers<br>glass beaker<br>glass beakers | General glass container for mixing, pouring, heating, and transfer. | `data/benchmark_inventory/files/labutopia/assets/chemistry_lab/lab_001/lab_001.usd#/World/beaker` | 当前使用 USD 场景缩略图展示 | [源文件](https://media.githubusercontent.com/media/Rui-li023/LabUtopia/main/assets/chemistry_lab/lab_001/lab_001.usd) |
+| <img src="previews/core/labutopia/labutopia-conical-bottle-family.png" width="320" alt="Conical Bottle / Flask Family"> | Conical Bottle / Flask Family | LabUtopia | 场景内对象引用 | conical_bottle | conical bottle<br>conical bottles<br>erlenmeyer flask<br>erlenmeyer flasks<br>conical flask<br>conical flasks | Flask-style glassware for liquid storage, mixing, and pouring. | `data/benchmark_inventory/files/labutopia/assets/chemistry_lab/lab_001/lab_001.usd#/World/conical_bottle02` | 当前使用 USD 场景缩略图展示 | [源文件](https://media.githubusercontent.com/media/Rui-li023/LabUtopia/main/assets/chemistry_lab/lab_001/lab_001.usd) |
+| <img src="previews/core/labutopia/labutopia-graduated-cylinder-03.png" width="320" alt="Graduated Cylinder"> | Graduated Cylinder | LabUtopia | 场景内对象引用 | graduated_cylinder | graduated cylinder<br>graduated cylinders<br>measuring cylinder<br>measuring cylinders | Volumetric cylinder for measuring and dispensing liquids. | `data/benchmark_inventory/files/labutopia/assets/chemistry_lab/lab_001/lab_001.usd#/World/graduated_cylinder_03` | 当前使用 USD 场景缩略图展示 | [源文件](https://media.githubusercontent.com/media/Rui-li023/LabUtopia/main/assets/chemistry_lab/lab_001/lab_001.usd) |
+| <img src="previews/core/labutopia/labutopia-glass-rod.png" width="320" alt="Glass Rod"> | Glass Rod | LabUtopia | 场景内对象引用 | glass_rod | glass rod<br>glass rods<br>stirring rod<br>stirring rods<br>glass stirring rod<br>glass stirring rods | Rod for manual stirring and mixing. | `data/benchmark_inventory/files/labutopia/assets/chemistry_lab/lab_003/lab_003.usd#/World/glass_rod` | 当前使用 USD 场景缩略图展示 | [源文件](https://media.githubusercontent.com/media/Rui-li023/LabUtopia/main/assets/chemistry_lab/lab_003/lab_003.usd) |
+| <img src="previews/core/labutopia/labutopia-test-tube-rack.png" width="320" alt="Test Tube Rack"> | Test Tube Rack | LabUtopia | 场景内对象引用 | tube_rack | tube rack<br>tube racks<br>centrifuge tube rack<br>centrifuge tube racks<br>microcentrifuge tube rack<br>microcentrifuge tube racks<br>test tube rack<br>test tube racks | Rack for holding tubes upright during preparation and storage. | `data/benchmark_inventory/files/labutopia/assets/chemistry_lab/lab_001/lab_001.usd#/World/test_tube_rack` | 当前使用 USD 场景缩略图展示 | [源文件](https://media.githubusercontent.com/media/Rui-li023/LabUtopia/main/assets/chemistry_lab/lab_001/lab_001.usd) |
+| <img src="previews/core/labutopia/labutopia-drying-box-family.png" width="320" alt="Drying Box Family"> | Drying Box Family | LabUtopia | 场景内对象引用 | drying_box | drying box<br>drying boxes<br>dry box<br>dry boxes<br>drying oven<br>drying ovens<br>drying chamber<br>drying chambers | Device used for drying or enclosed heating workflows. | `data/benchmark_inventory/files/labutopia/assets/chemistry_lab/lab_001/lab_001.usd#/World/DryingBox_01` | 当前使用 USD 场景缩略图展示 | [源文件](https://media.githubusercontent.com/media/Rui-li023/LabUtopia/main/assets/chemistry_lab/lab_001/lab_001.usd) |
+| <img src="previews/core/labutopia/labutopia-heat-device.png" width="320" alt="Heat Device / Hot Plate"> | Heat Device / Hot Plate | LabUtopia | 场景内对象引用 | heating_device | hot plate<br>hot plates<br>heating plate<br>heating plates<br>heating device<br>heating devices<br>heat device<br>heat devices<br>heater<br>heaters | Heating surface or device used to activate thermal tasks. | `data/benchmark_inventory/files/labutopia/assets/chemistry_lab/lab_003/lab_003.usd#/World/heat_device` | 当前使用 USD 场景缩略图展示 | [源文件](https://media.githubusercontent.com/media/Rui-li023/LabUtopia/main/assets/chemistry_lab/lab_003/lab_003.usd) |
+| <img src="previews/core/labutopia/labutopia-muffle-furnace.png" width="320" alt="Muffle Furnace"> | Muffle Furnace | LabUtopia | 场景内对象引用 | muffle_furnace | muffle furnace<br>muffle furnaces<br>laboratory furnace<br>laboratory furnaces | High-temperature heating device for enclosed furnace operations. | `data/benchmark_inventory/files/labutopia/assets/chemistry_lab/hard_task/Scene1_hard.usd#/World/MuffleFurnace` | 当前使用 USD 场景缩略图展示 | [源文件](https://media.githubusercontent.com/media/Rui-li023/LabUtopia/main/assets/chemistry_lab/hard_task/Scene1_hard.usd) |
 
 ## 6. 当前结论
 
